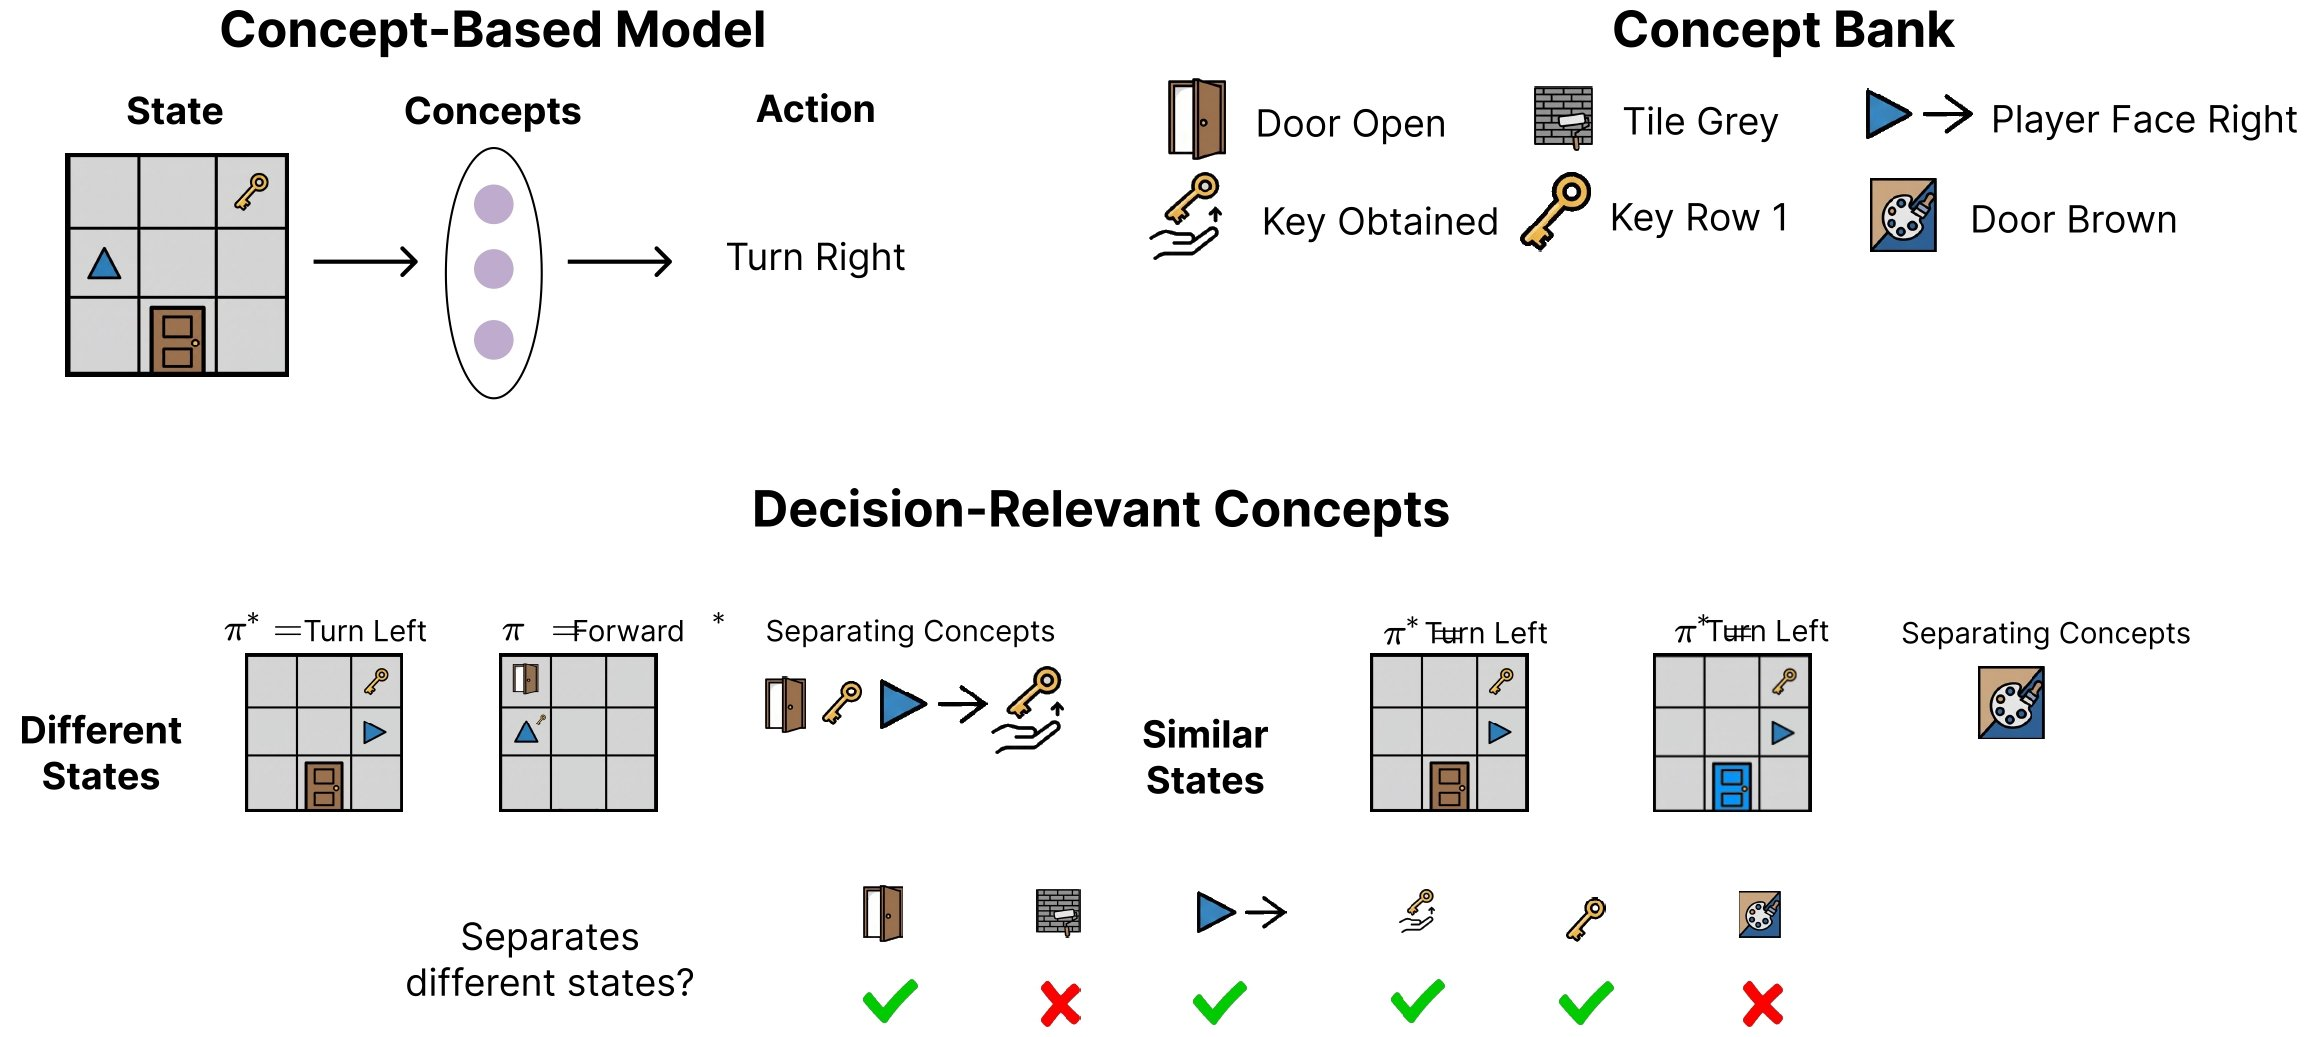
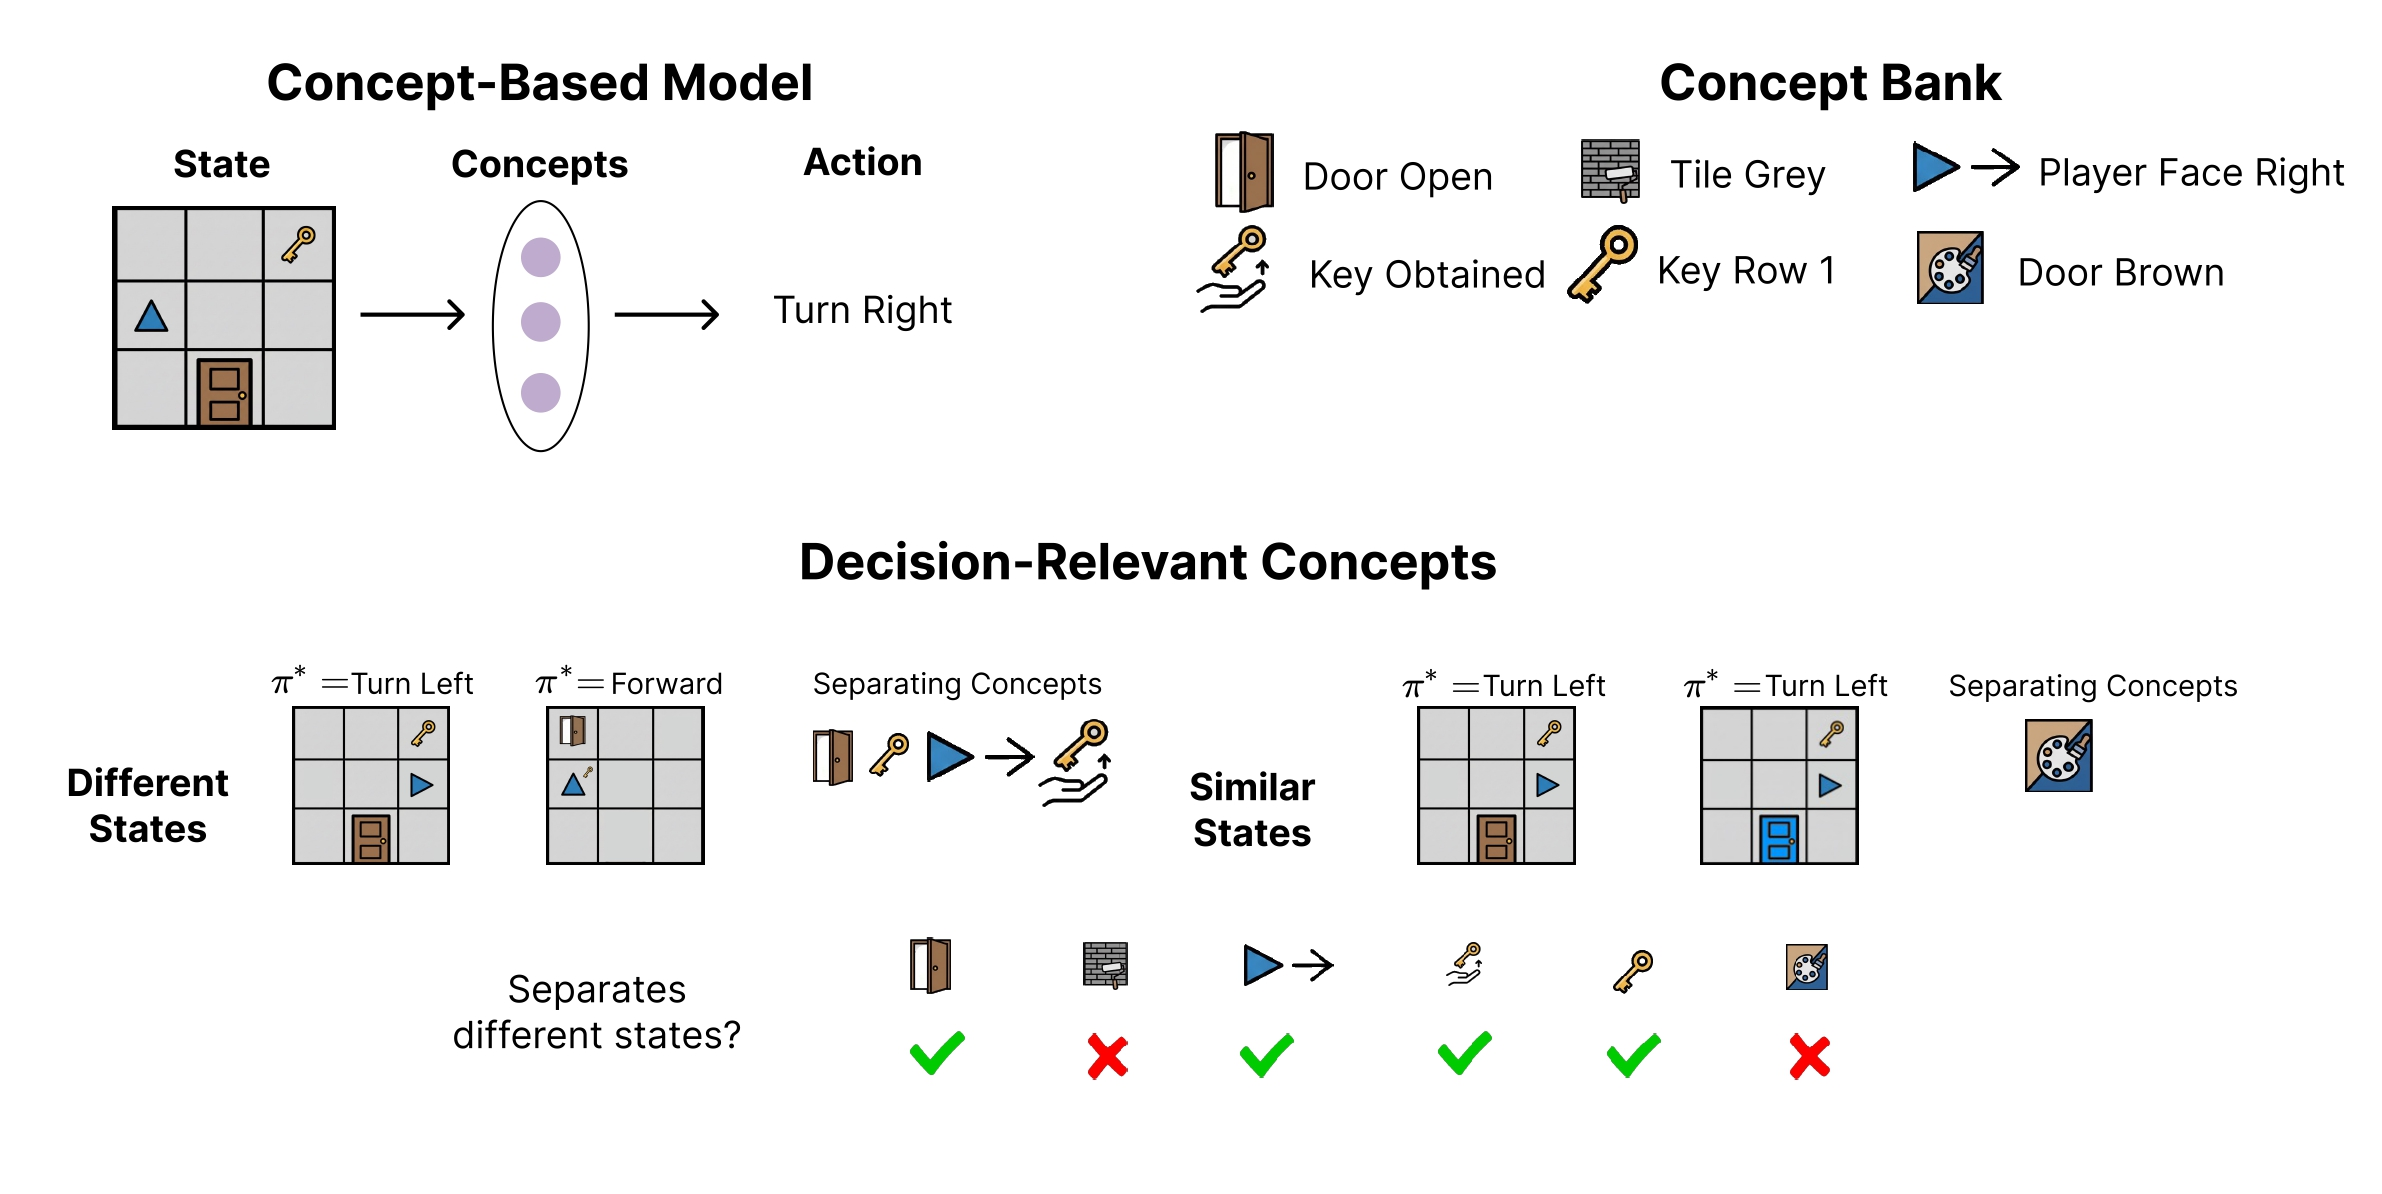
Updated README.md

diff --git a/README.md b/README.md
@@ -3,7 +3,7 @@
 **Naveen Raman, Stephanie Milani, Fei Fang**  
 Carnegie Mellon University · New York University · Johns Hopkins University
 
-[[Paper]](https://arxiv.org/abs/XXX) · [[Project Page]](https://XXX)
+[[Paper]](https://arxiv.org/abs/XXX) · [[Project Page]](https://naveenraman.com/projects/concept-rl/)
 
 ![Pull figure](figures/pull_figure.jpg)
 
@@ -69,7 +69,6 @@ policy = train_ppo(
     total_timesteps=250_000,
     policy="CnnPolicy",
 )
-policy.save("results/models/mini_grid_policy.zip")
 ```
 
 **DRS** — optimal concept selection for ground-truth (perfect) concept predictors:
@@ -152,16 +151,6 @@ jupyter nbconvert --to notebook --execute plot_results.ipynb
 
 Config files for each experiment are in `scripts/configs/`:
 
-| Config | Figures |
-|--------|---------|
-| `main_perfect.yaml` | Fig. 2 (top) — perfect concept predictors |
-| `main_imperfect.yaml` | Fig. 2 (bottom) — imperfect concept predictors |
-| `intervention.yaml` | Fig. 4 — test-time intervention |
-| `accuracy_sweep.yaml` | Fig. 3, 5 — varying k |
-| `ablations.yaml` | Appendix E — DRS ablations |
-| `timing.yaml` | Appendix F — runtime |
-| `cub.yaml` | Fig. 6 — CUB bird classification |
-
 ---
 
 ## CUB Bird Classification
@@ -169,12 +158,12 @@ Config files for each experiment are in `scripts/configs/`:
 The CUB experiments require additional data setup.
 
 1. Download the standard CUB-200-2011 preprocessed split from
-   [Kaggle](https://www.kaggle.com/datasets/coolerextreme/cub200-cbm) and
-   place the `.pkl` files in `data/cub/`.
+   [Kaggle](https://worksheets.codalab.org/bundles/0xd013a7ba2e88481bbc07e787f73109f5) and
+   place the resulting `.pkl` files in `data/cub/`.
 
 2. Download the concept-prediction error files (`train_error.pkl`,
    `val_error.pkl`, `test_error.pkl`) from
-   [Zenodo](https://zenodo.org/record/XXX) into `data/cub/`.
+   [Zenodo](https://zenodo.org/records/18827396) into `data/cub/`. We also provide the `train.pkl`, `val.pkl`, and `test.pkl` files for convenience. 
 
 3. Run:
    ```bash
@@ -191,6 +180,7 @@ concept_decisions/
 ├── plot_results.ipynb            # generates all figures
 ├── environment.yaml              # conda environment
 ├── setup.py
+|── install.sh
 │
 ├── scripts/
 │   ├── train_prerequisites.py    # train policies + concept predictors
@@ -202,7 +192,7 @@ concept_decisions/
 │   └── configs/                  # per-experiment YAML configs
 │
 ├── concept_abstraction/          # library (importable)
-│   ├── __init__.py               # public API: DRS, DRS_log, variance, random
+│   ├── __init__.py               # public API: DRS, DRS_log, variance, etc.
 │   ├── _api.py                   # API implementation
 │   ├── selection.py              # LP solvers (drs, drs_log, etc.)
 │   ├── concept_bank.py           # concept definitions per environment
@@ -230,8 +220,7 @@ concept_decisions/
 @inproceedings{raman2026decisionrelevant,
   title     = {Selecting Decision-Relevant Concepts in Reinforcement Learning},
   author    = {Raman, Naveen and Milani, Stephanie and Fang, Fei},
-  booktitle = {XXX},
-  year      = {2026},
-  url       = {XXX}
+  journal={arXiv preprint arXiv:XXXX.XXXXX},
+  year={2026}
 }
 ```
